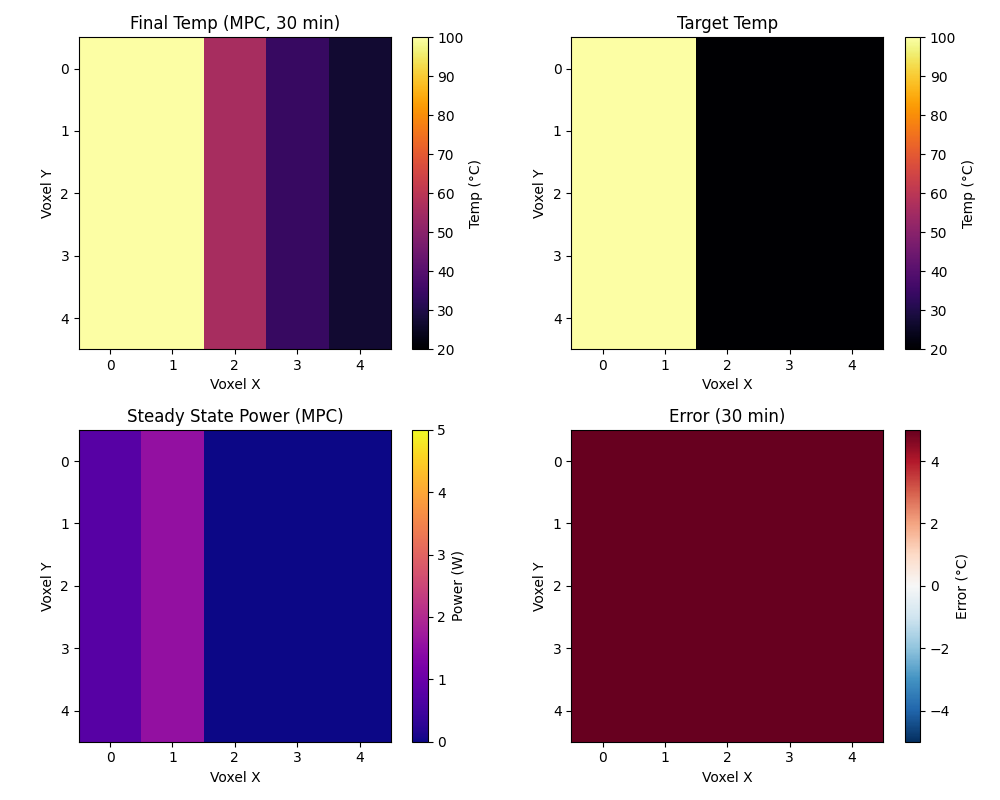
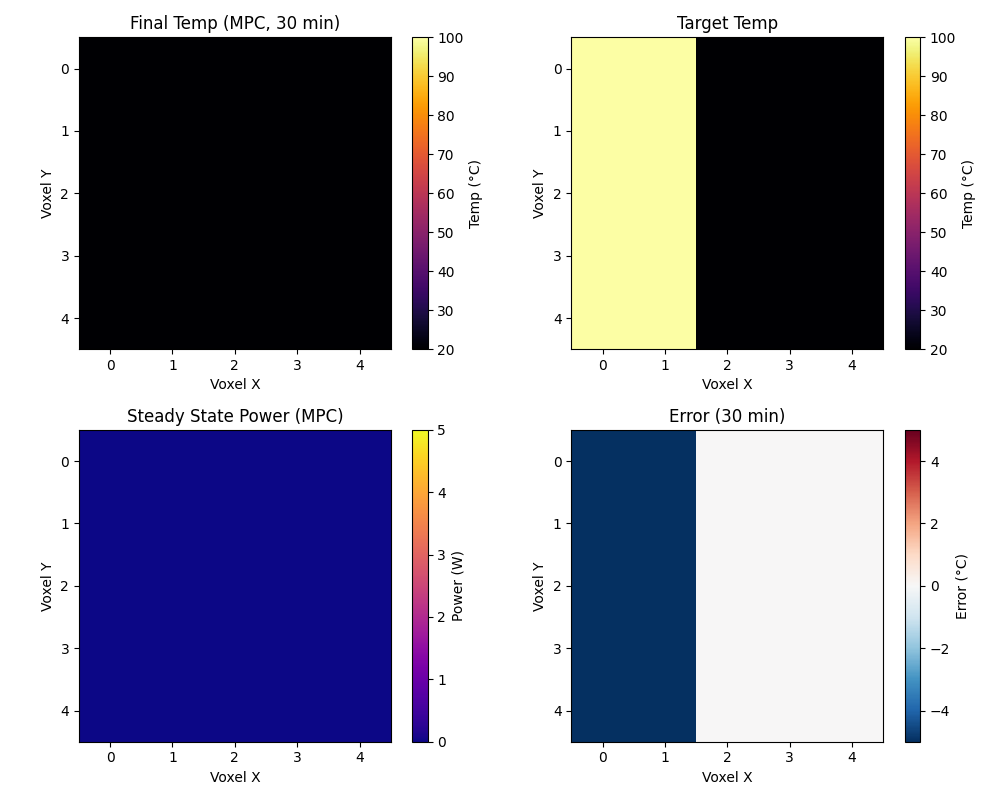
Update simulation outputs and enhance MPC functionality
- Updated binary simulation output images for various MPC scenarios, including center step, uniform saturation, gradient response, and long-duration simulations.
- Modified the `run_simulations.py` script to improve the `simulate_mpc` function, adding parameters for regularization and debugging, and enhancing the output data handling for better analysis of control strategies.

Changed region(s): [[0.558, 0.5312, 0.899, 0.9375], [0.062, 0.0312, 0.403, 0.4375], [0.062, 0.5312, 0.217, 0.9375]]

diff --git a/src/run_simulations.py b/src/run_simulations.py
@@ -2,6 +2,7 @@ import numpy as np
 import matplotlib.pyplot as plt
 from matplotlib.animation import FuncAnimation
 import os
+import math
 from src.model import ThermalModel2D
 import src.parameters as params
 
@@ -20,7 +21,7 @@ def run_simulation():
     Q_T_W, Q_E_W, R_W = 100.0, 0.1, 0.001
     K_nearest, _ = model_nearest.design_lqr(Q_T_W, Q_E_W, R_W)
     K_distance, _ = model_distance.design_lqr(Q_T_W, Q_E_W, R_W)
-    MPC_HORIZON = 5.0
+    MPC_HORIZON = 1
     
     # Common Simulation Settings
     dt = 0.05 
@@ -62,19 +63,22 @@ def run_simulation():
         return time, y_hist, u_hist_sat, u_hist_unsat, y_star, u_star
 
     def simulate_mpc(model, y0, T_target_map, horizon=MPC_HORIZON, q_temp_weight=1.0,
-                     steps_override=None, dt_override=None):
+                     steps_override=None, dt_override=None, record_interval=1):
         """
         Simulate MPC closed-loop using the formulation from src.model.
         """
         y_star, u_star = model.get_steady_state(T_target_map)
         local_steps = steps_override if steps_override is not None else steps
         local_dt = dt_override if dt_override is not None else dt
-        local_time = np.linspace(0, local_steps * local_dt, local_steps)
+        sample_interval = max(1, int(record_interval))
+        sample_count = math.ceil(local_steps / sample_interval)
+        local_time = np.zeros(sample_count)
 
         y_current = y0.copy()
+        # u_current = np.zeros(N)
         u_current = np.clip(u_star.copy(), 0.0, params.P_MAX)
-        y_hist = np.zeros((local_steps, 2 * N))
-        u_hist = np.zeros((local_steps, N))
+        y_hist = np.zeros((sample_count, 2 * N))
+        u_hist = np.zeros((sample_count, N))
 
         q_diag = np.ones(N) * q_temp_weight
         Q_matrix = np.diag(q_diag)
@@ -85,6 +89,7 @@ def run_simulation():
         except np.linalg.LinAlgError:
             QS_solver = np.linalg.pinv(QS)
 
+        sample_idx = 0
         for i in range(local_steps):
             delta_u = model.mpc_step(
                 y_current,
@@ -100,11 +105,18 @@ def run_simulation():
             u_candidate = u_current + delta_u
             u_current = np.clip(u_candidate, 0.0, params.P_MAX)
 
-            y_hist[i] = y_current
-            u_hist[i] = u_current
+            if i % sample_interval == 0 and sample_idx < sample_count:
+                y_hist[sample_idx] = y_current
+                u_hist[sample_idx] = u_current
+                local_time[sample_idx] = i * local_dt
+                sample_idx += 1
 
             dy = model.sys.A @ y_current + model.sys.B @ u_current + model.sys.E
             y_current += dy * local_dt
+
+        y_hist[-1] = y_current
+        u_hist[-1] = u_current
+        local_time[-1] = (local_steps - 1) * local_dt
 
         return local_time, y_hist, u_hist, y_star
 
@@ -559,16 +571,19 @@ def run_simulation():
     plt.close(fig8)
 
     # MPC counterpart for Sim 8
-    t8_mpc, y8_mpc, _, _ = simulate_mpc(model_nearest, y0_amb, T_target_8,
-                                        steps_override=steps_stab, dt_override=dt)
-    sample_idx = np.arange(0, len(t8_mpc), save_interval)
-    y8_mpc_sampled = y8_mpc[sample_idx]
-    t8_mpc_sampled = t8_mpc[sample_idx]
+    t8_mpc, y8_mpc, _, _ = simulate_mpc(
+        model_nearest,
+        y0_amb,
+        T_target_8,
+        steps_override=steps_stab,
+        dt_override=dt,
+        record_interval=save_interval,
+    )
 
     fig8_mpc, (ax8m_a, ax8m_b) = plt.subplots(2, 1, figsize=(8, 10))
-    ax8m_a.plot(t8_mpc_sampled, y8_mpc_sampled[:, 0], label='Corner (MPC)')
-    ax8m_a.plot(t8_mpc_sampled, y8_mpc_sampled[:, 1], label='Neighbor (MPC)')
-    ax8m_a.plot(t8_mpc_sampled, y8_mpc_sampled[:, 12], label='Center (MPC)')
+    ax8m_a.plot(t8_mpc, y8_mpc[:, 0], label='Corner (MPC)')
+    ax8m_a.plot(t8_mpc, y8_mpc[:, 1], label='Neighbor (MPC)')
+    ax8m_a.plot(t8_mpc, y8_mpc[:, 12], label='Center (MPC)')
     ax8m_a.set_title('Sim 8 (MPC): Long-Term Stability')
     ax8m_a.set_ylabel('Temperature (°C)')
     ax8m_a.set_xlabel('Time (s)')
@@ -576,9 +591,9 @@ def run_simulation():
     ax8m_a.grid(True)
     ax8m_a.set_ylim(35, 85)
 
-    T_hist_mpc = y8_mpc_sampled[:, :N]
+    T_hist_mpc = y8_mpc[:, :N]
     error_norm_mpc = np.linalg.norm(T_hist_mpc - T_target_flat, axis=1) / np.sqrt(N)
-    ax8m_b.plot(t8_mpc_sampled, error_norm_mpc, 'k-')
+    ax8m_b.plot(t8_mpc, error_norm_mpc, 'k-')
     ax8m_b.set_title('MPC RMS Temperature Error (1 Hour)')
     ax8m_b.set_ylabel('RMS Error (°C)')
     ax8m_b.set_xlabel('Time (s)')
